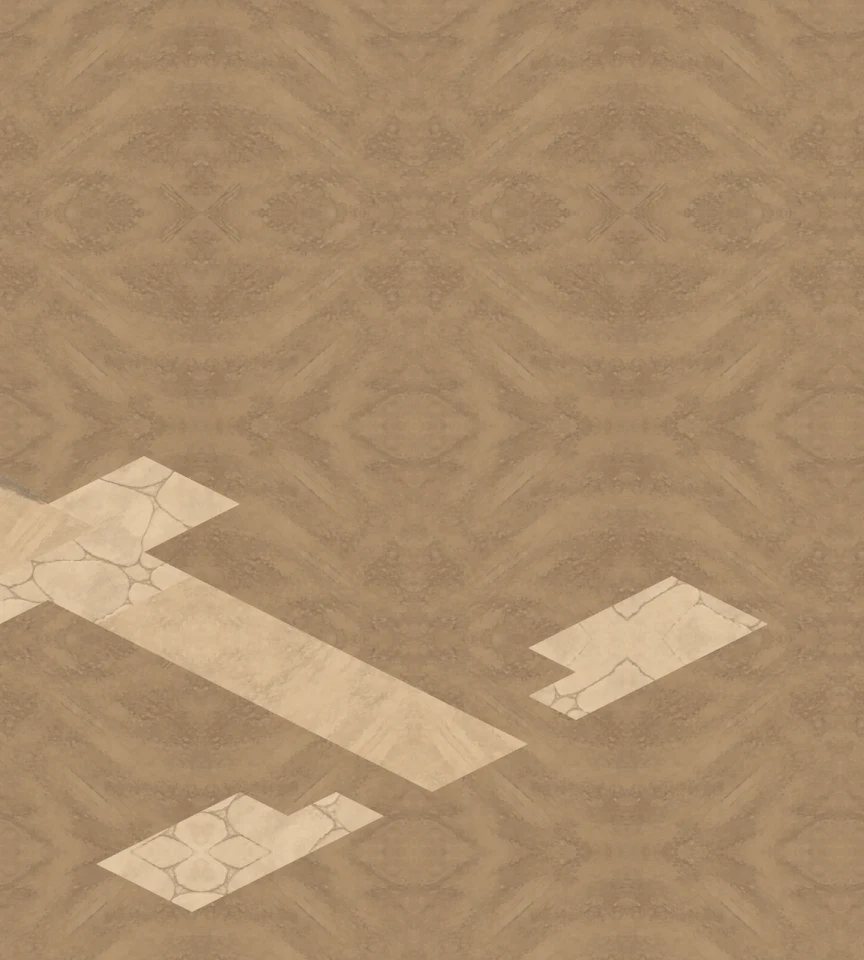
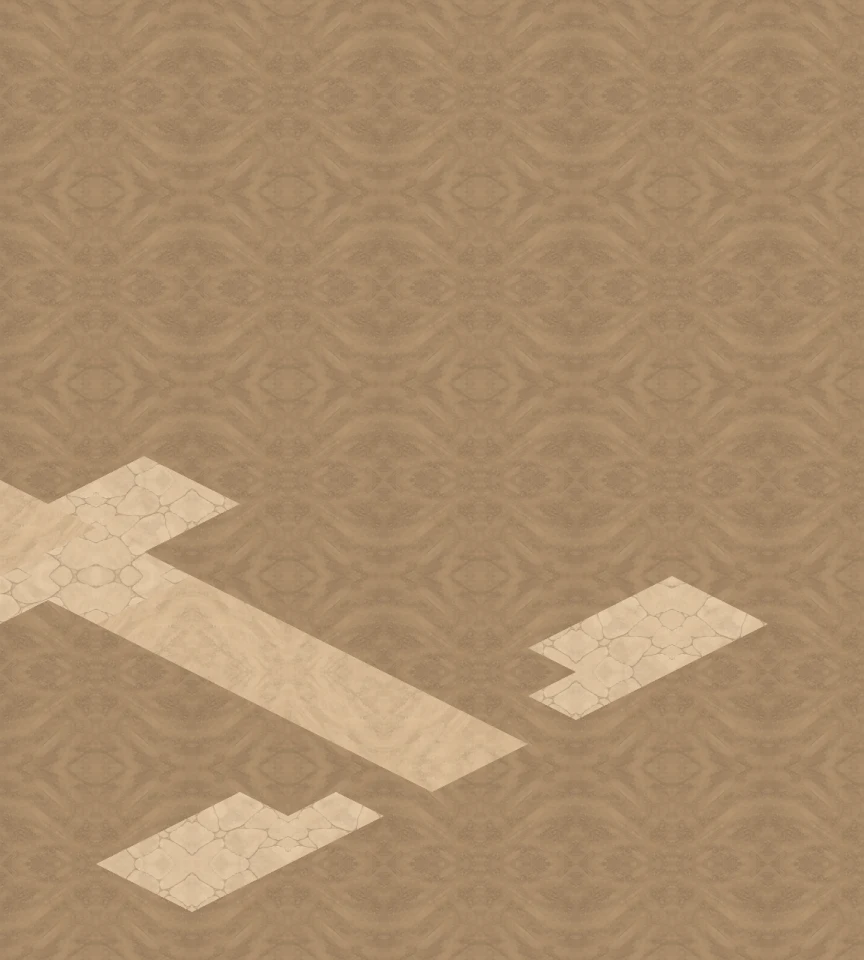
Right-size quarry gate paving

diff --git a/scripts/art/quarry-ground-pack.ts b/scripts/art/quarry-ground-pack.ts
@@ -9,6 +9,10 @@ import { encodeWebp } from './lib/webp';
 const [materialPath, coverPath, shoulderPath] = process.argv.slice(2);
 if (!materialPath || !coverPath)
   throw new Error('Provide three-panel materials and transparent timber PNGs.');
+// A ground diamond is128x64 at the registered plate scale. Keep each field at
+// one diamond wide so the flat limestone reads as paving beneath a standing
+// unit instead of as a single oversized slab.
+const FIELD_REPEAT_PX = 128;
 const source = readImage(materialPath),
   timber = readImage(coverPath);
 const shoulderSource = shoulderPath ? readImage(shoulderPath) : null;
@@ -36,8 +40,8 @@ const fields = [0, 1, 2].map((index) =>
       width: source.height - 16,
       height: source.height - 16,
     }),
-    284,
-    284,
+    FIELD_REPEAT_PX,
+    FIELD_REPEAT_PX,
   ),
 );
 /** Reflected authored texels meet without seams; no upscaling or invented paint. */

diff --git a/docs/art/quarry-gate-material-pass.md b/docs/art/quarry-gate-material-pass.md
@@ -53,13 +53,17 @@ node --import tsx scripts/art/quarry-ground-pack.ts SOURCE/exec-b65fb7e8-f4b0-4f
 npm run art:prop -- cart SOURCE/exec-6b301c99-d305-49af-b6a4-1706cb832800.png
 ```
 
-Ground panels crop the same8px inset, then downsample to284x284 before reflected
-sampling through unchanged exact map masks. Ground output remains864x960 per
-chunk. Wall output remains256x352 per module; original prism clipping/fringe
-cleanup is retained (933 clipped/633 keyed pixels). New --walls-only mode avoids
-restoring the rejected wholeplate. Cover timber output is byte-identical.
+Ground panels crop the same8px inset, then downsample to128x128 before reflected
+sampling through unchanged exact map masks. One repeated field is now one ground
+diamond wide at the registered plate scale, so the flat limestone reads under an
+actor rather than as a multi-tile slab. Ground output remains864x960 per chunk;
+the registered1152x1280 page coordinates, masks, wall anchors and timber anchors
+are unchanged. Wall output remains256x352 per module; original prism
+clipping/fringe cleanup is retained (933 clipped/633 keyed pixels). New
+--walls-only mode avoids restoring the rejected wholeplate. Cover timber output
+is byte-identical.
 
-Ground+cover141,376 bytes, walls80,106 bytes. Map family3.07MiB, props0.25MiB;
+Ground+cover143,374 bytes, walls80,106 bytes. Maps family3.86MiB, props0.25MiB;
 all4MiB family budgets unchanged and passing. No other asset is degraded.
 
 ## Actual runtime review
@@ -80,3 +84,28 @@ wall-module repetition, shallow elevation, undersized cart and the legacy
 procedural guard remain gaps against the reference. No hazard-chain/destruction,
 normal-route, physical device or overall scene-quality approval is claimed.
 Gate remains the scope; cutting/floor expansion is not included.
+
+## Paving-scale follow-up
+
+The same source panels are packed at a128px repeat instead of284px. A projected
+ground diamond is128px wide, so this makes individual flat limestone pavers read
+under a standing actor rather than as a few multi-tile slabs. The exact map mask,
+864x960 source pages, registered1152x1280 destinations, wall anchors and timber
+cover anchors are unchanged. Re-running the pack from the recorded source is
+deterministic; the repaired pages are68,868 bytes west and68,436 bytes east.
+
+Ignored comparison evidence is at
+`gallery/scene-audit/quarry-gate-paving-scale/assembled-before/` and
+`gallery/scene-audit/quarry-gate-paving-scale/assembled-after/`. A disposable
+detached preview based on5d5952f overlaid the current gate scene, west and
+southwest frame registrations, and gate assets; it did not alter the gameplay
+worktree or port4200. Staged solo Kaya at `battle_quarry_gate` passed in Canvas
+and WebGL at1368x912 with normal motion and no page errors. The before/after
+frames hold the same actor, camera and map position. The repaired field keeps
+the paved-area boundary while replacing actor-sized slabs with smaller pavers;
+no obvious repeat grid was found at the review camera.
+
+The quarry watch and Workers' tea station remain procedural painter fallbacks.
+Sen intentionally shares Gao's person and portrait art in the current slice;
+dedicated watch, Sen and tea-rest assets remain a later quality gap rather than
+an identity reuse patch.
